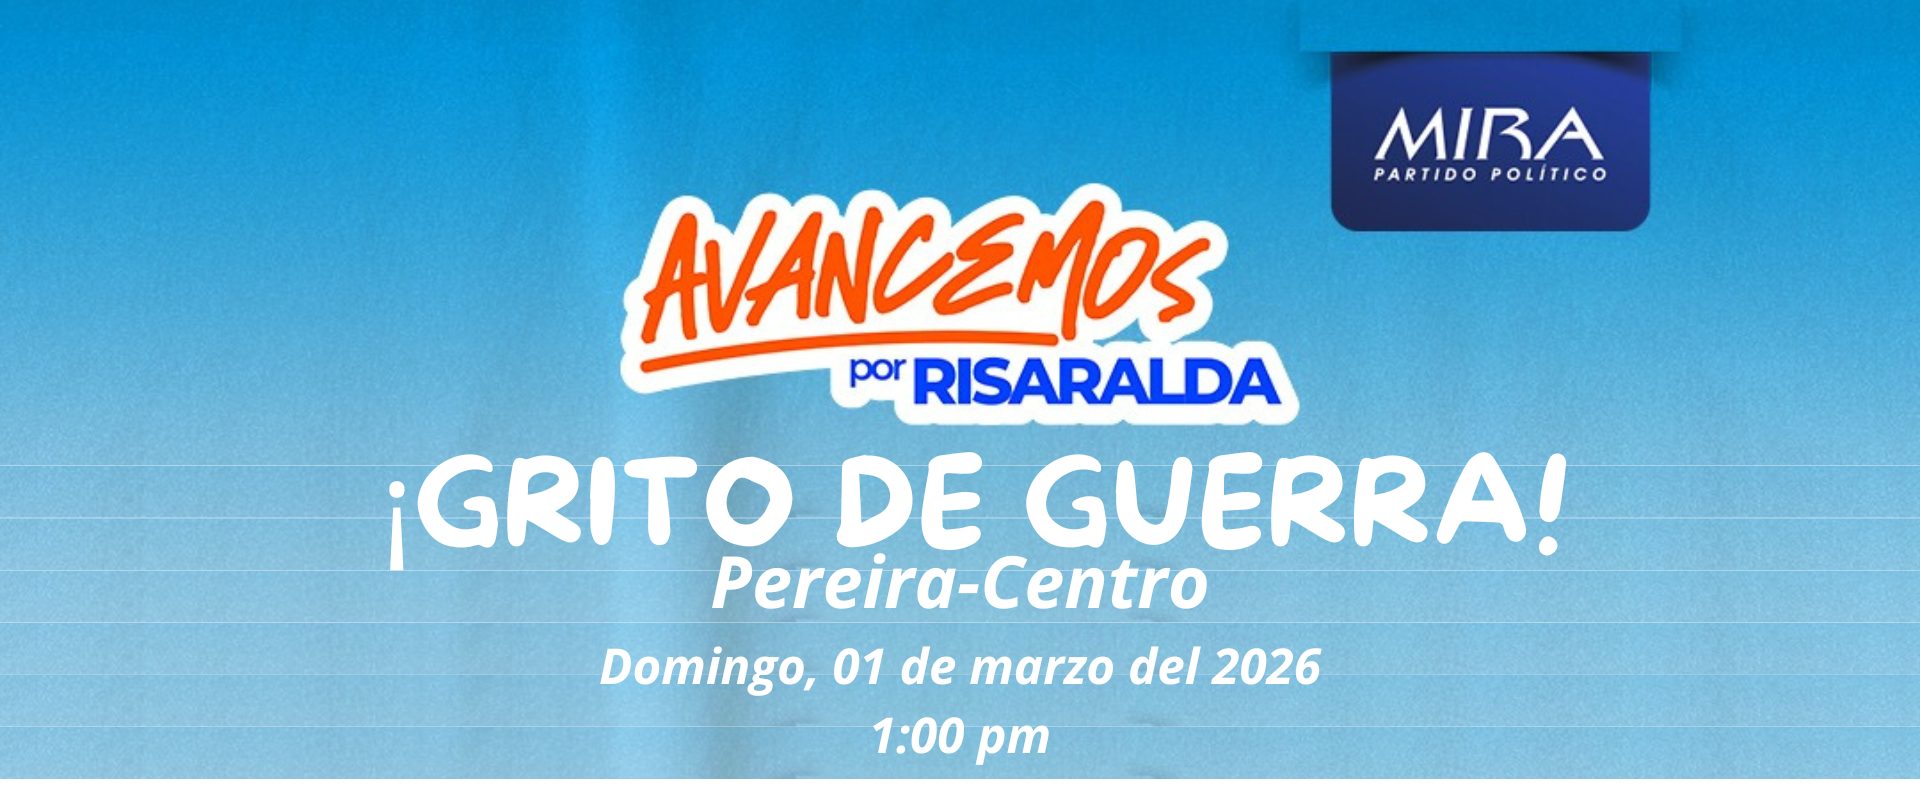
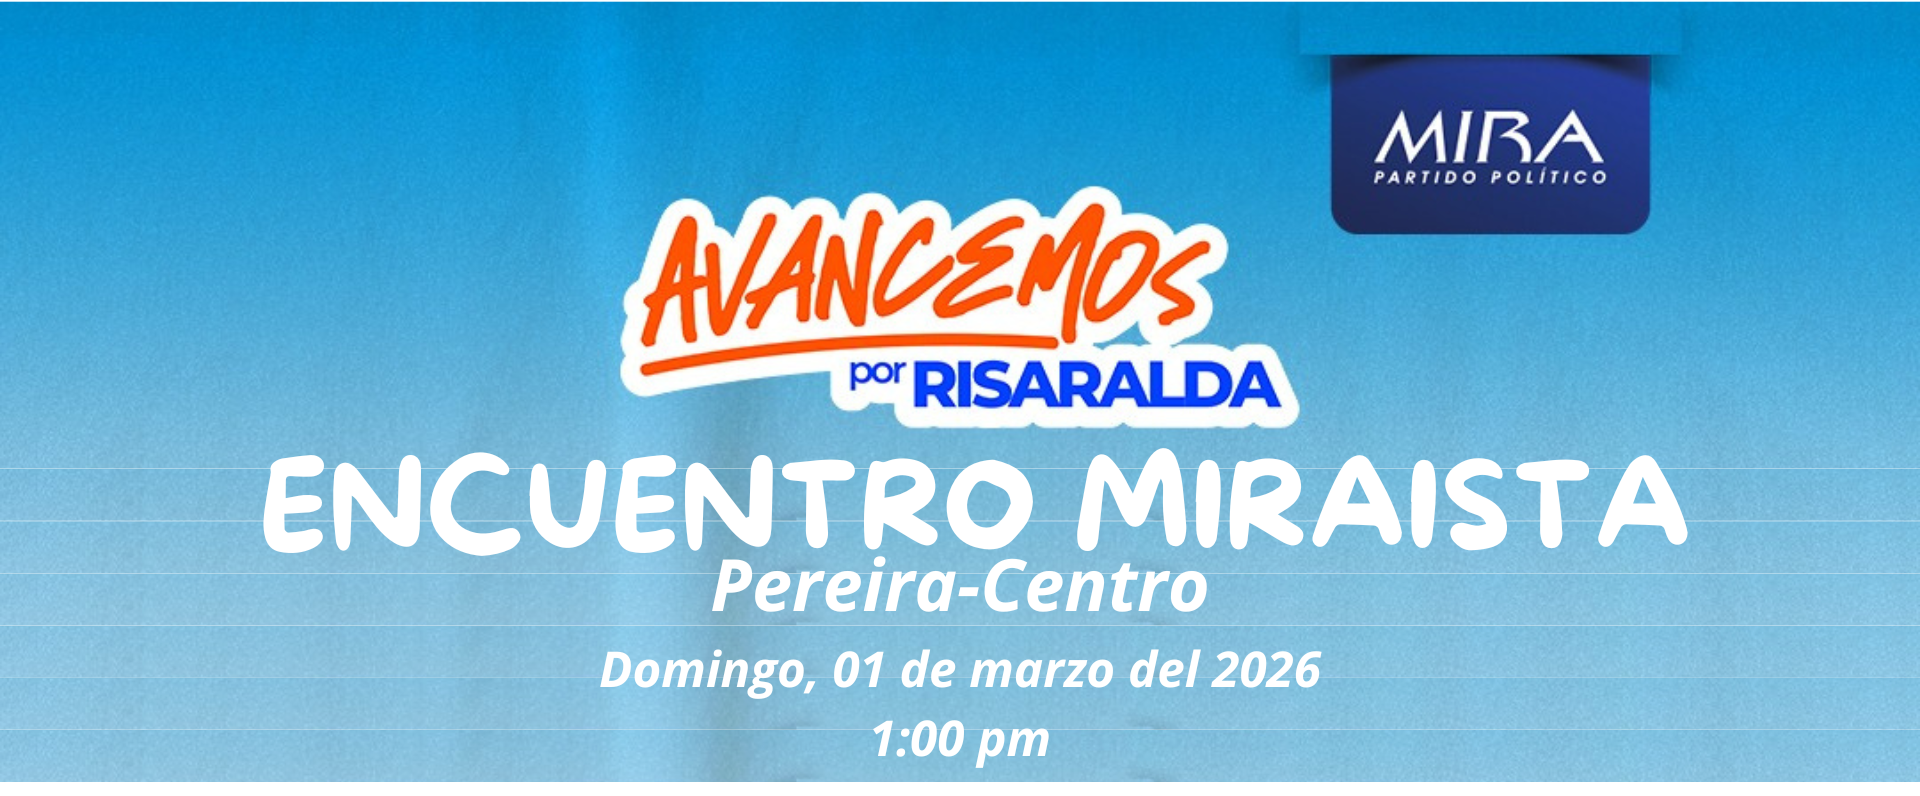
chage event name

diff --git a/index.html b/index.html
@@ -3,7 +3,7 @@
 <head>
     <meta charset="UTF-8">
     <meta name="viewport" content="width=device-width, initial-scale=1.0">
-    <title>¡Grito de Guerra!</title>
+    <title>¡Encuentro Miraista!</title>
     <!-- Font Awesome -->
     <link href="https://cdnjs.cloudflare.com/ajax/libs/font-awesome/6.0.0-beta3/css/all.min.css" rel="stylesheet">
     <!-- Google Fonts -->
